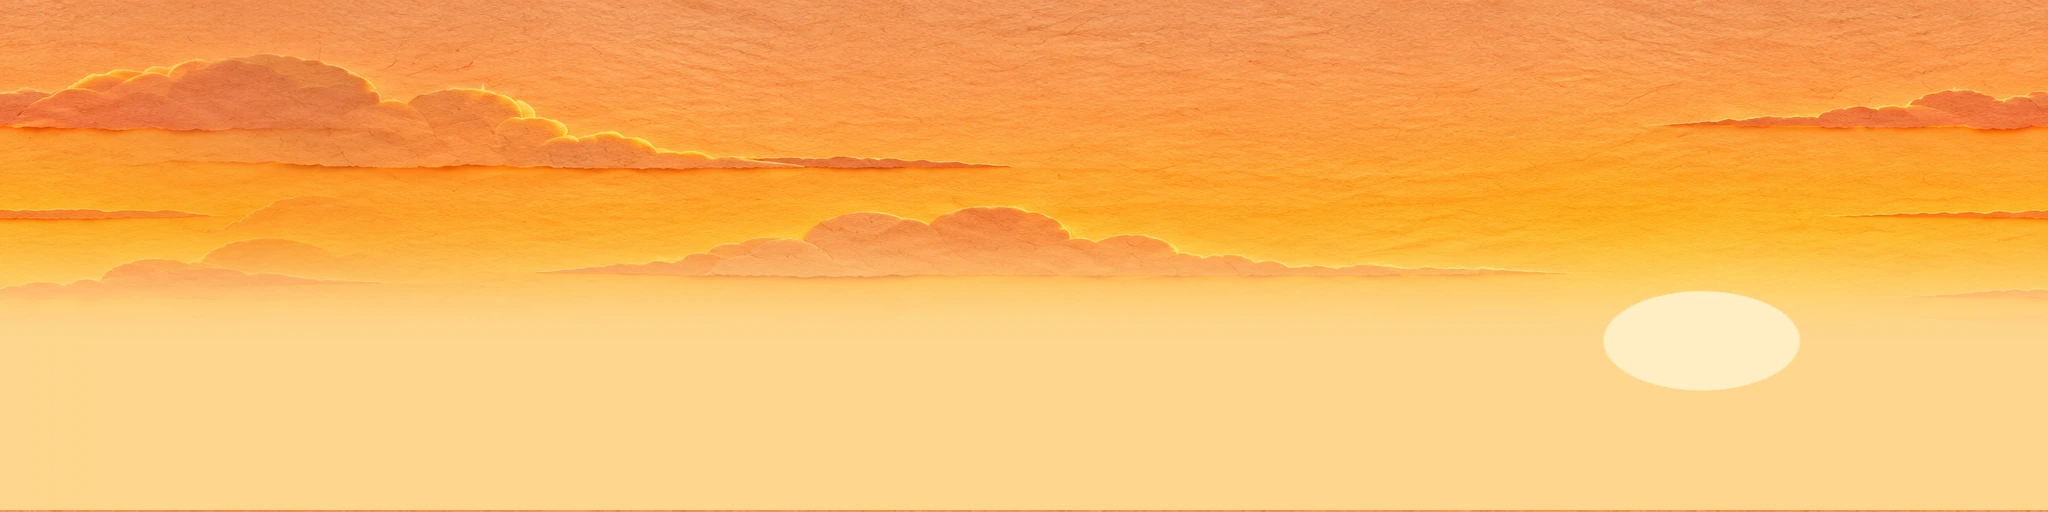
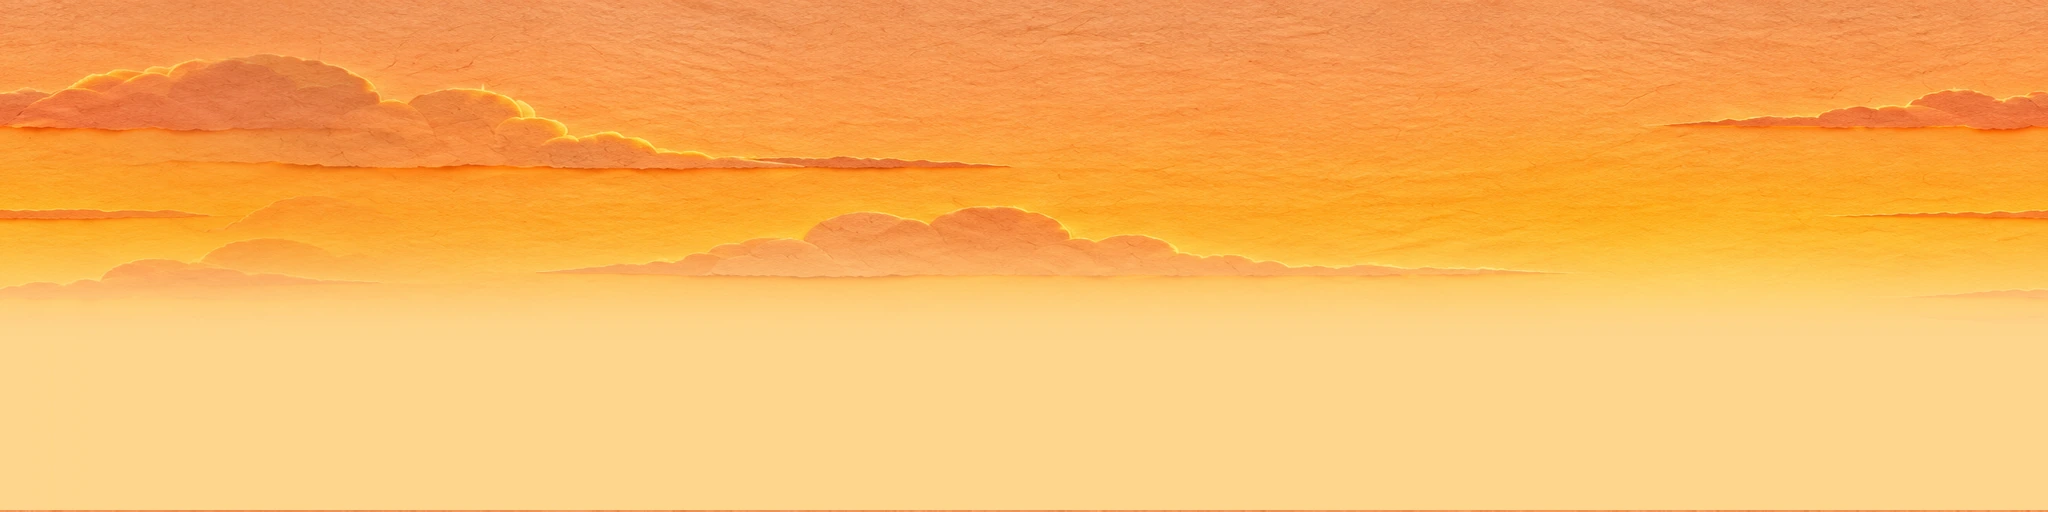
Capas: cerros cálidos, pinos con piso de valor, un solo sol fuera del mosaico; malva a un interruptor

Changed region(s): [[0.7812, 0.5625, 0.9062, 0.7812]]

diff --git a/src/art/capas.js b/src/art/capas.js
@@ -2,7 +2,7 @@
 // webp solo se piden si el jugador está en el nivel 1; si no cargan, se queda el fondo de código. Encima siguen obstáculos, fichas, Moki, hojas y bokeh.
 // Las sale de evidencia/salto-capas/herramientas/hacer-capas.py: solo fondo. Moki nunca pasa por ahí.
 import cieloUrl from '../../assets/capas/capa-cielo.webp';
-import lejosUrl from '../../assets/capas/capa-lejos.webp';
+import lejosUrl from '../../assets/capas/capa-lejos.webp'; // interruptor de los cerros: capa-lejos.webp (cálidos) o capa-lejos-malva.webp (0c94591)
 import medioUrl from '../../assets/capas/capa-medio.webp';
 import sueloUrl from '../../assets/capas/capa-suelo.webp';
 
@@ -14,7 +14,9 @@ const CAPAS = {
   medio: { url: medioUrl, depth: 3.06, ancho: 1100, alto: 261, par: 0.6, pie: 22 },
   suelo: { url: sueloUrl, depth: 4.62, ancho: 1147, alto: 236, par: 1 }, // debajo de la gemela de lápiz del suelo (4.7)
 };
-const SOL = { x: 945, en: 0.8, sube: 110 }; // x del mundo donde cae el sol pintado en el mosaico del cielo; en: parte del ancho de pantalla donde se ve al empezar; sube: px del mundo que el cielo va arriba, para que el sol asome sobre los cerros
+// El sol no va en el mosaico: repetía cada 1139 px y salían dos (CAPAS: CERROS, PINOS Y SOL). Es uno solo y baja de 'en' a 'hasta' del ancho de pantalla en todo el nivel 1 (fin); en Libre, más allá de fin, se queda.
+// r: radio en px del mundo. y: parte del cielo, con sube, donde cae su centro. sube: px del mundo que el cielo va arriba, para que el sol asome sobre los cerros.
+const SOL = { en: 0.8, hasta: 0.2, fin: 44254, r: 59, y: 0.665, sube: 110, color: '#FFEEC4', depth: 1.59 };
 const SUELO_ARRIBA = 12; // px del mundo que el canto del suelo pintado queda arriba de groundY: Moki pisa la franja crema
 const SUELO_MARGEN = 6; // px de la textura, ya en el mundo, entre el borde de la textura y ese canto
 
@@ -36,8 +38,11 @@ export function montarCapas(s) {
     const d = (n) => (quieto ? 0 : s.dist * CAPAS[n].par);
     const anchoCielo = CAPAS.cielo.ancho * ms;
     const hCielo = g + 12 - s.top;
-    pon(c.cielo, 0, s.top, s.vw, hCielo, anchoCielo / TEX.w, (hCielo + SOL.sube) / TEX.h, SOL.x * ms - s.vw * SOL.en + d('cielo'));
+    pon(c.cielo, 0, s.top, s.vw, hCielo, anchoCielo / TEX.w, (hCielo + SOL.sube) / TEX.h, d('cielo'));
     c.cielo.tilePositionY = SOL.sube / c.cielo.tileScaleY;
+    const avance = quieto ? 0 : Math.min(s.dist / SOL.fin, 1);
+    c.sol.setPosition(s.vw * (SOL.en + (SOL.hasta - SOL.en) * avance), s.top + SOL.y * (hCielo + SOL.sube) - SOL.sube).setScale(ms);
+    c.sol.setVisible(st > 0).setAlpha(st);
     const plano = (L, n, esc, baja) => {
       const P = CAPAS[n];
       const alto = P.alto * esc;
@@ -58,6 +63,16 @@ export function montarCapas(s) {
     nombres.forEach((n) => {
       c[n] = s.add.tileSprite(0, 0, 10, 10, llave(n)).setOrigin(0, 0).setDepth(CAPAS[n].depth).setVisible(false);
     });
+    if (!s.textures.exists('capa_sol')) {
+      const t = s.textures.createCanvas('capa_sol', SOL.r * 2 + 2, SOL.r * 2 + 2);
+      const x = t.getContext();
+      x.fillStyle = SOL.color;
+      x.beginPath();
+      x.arc(SOL.r + 1, SOL.r + 1, SOL.r, 0, Math.PI * 2);
+      x.fill();
+      t.refresh();
+    }
+    c.sol = s.add.image(0, 0, 'capa_sol').setDepth(SOL.depth).setVisible(false);
     c.cargadas = true;
     // Con una transición ya corriendo no se cambia el dibujo a medias: colocar la activa al terminar
     if (!s.boceto) c.activa = true;
